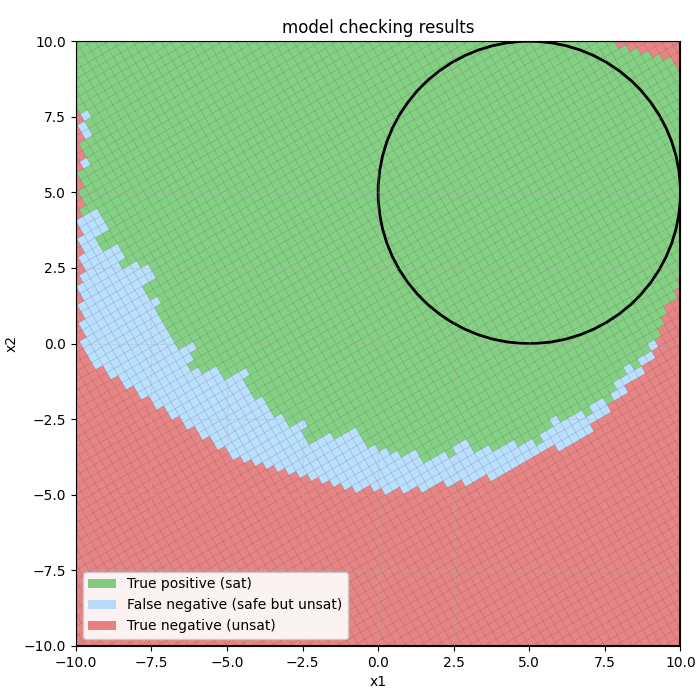
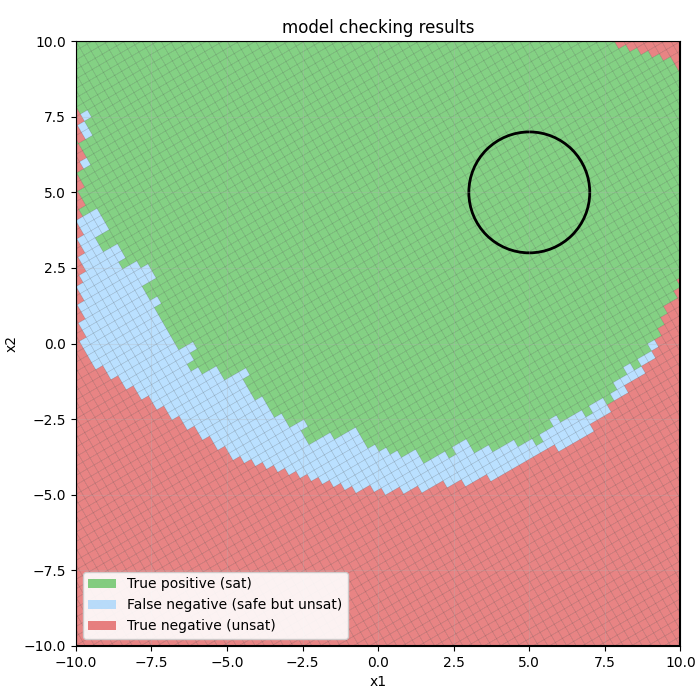
measure fnr post train

diff --git a/synthetic-spread-opt.py b/synthetic-spread-opt.py
@@ -2,6 +2,7 @@
 import numpy as np
 import grid_plot_tools as gpt
 from spread_objective_tools import trans_matrix, diff_objective_reg, extract_grid_params
+from model_checking_tools import make_kripke_from_params, model_check_kripke, check_ground_truth, false_negative_rate
 import jax
 import jax.numpy as jnp
 
@@ -26,7 +27,10 @@ def adam_optimize(params, obj_fn, obj_kwargs, steps=2000, lr=1e-2,
         mhat = m / (1 - b1 ** t)
         vhat = v / (1 - b2 ** t)
 
-        params = params - lr * mhat / (jnp.sqrt(vhat) + eps)
+        # params = params - lr * mhat / (jnp.sqrt(vhat) + eps)
+        # Update only the last 4 parameters
+        update = lr * mhat[-4:] / (jnp.sqrt(vhat[-4:]) + eps)
+        params = params.at[-4:].add(-update)
 
         if (t % print_every) == 0 or t == 1:
             print(f"step {t:5d} | obj {float(val):.6f} | ||g|| {float(gnorm):.6f}")
@@ -43,10 +47,13 @@ if __name__ == "__main__":
     # Define the X-domain
     x1_min, x1_max = -10.0, 10.0
     x2_min, x2_max = -10.0, 10.0
+    x_domain = (x1_min, x1_max, x2_min, x2_max)
+    x_star = np.array([5.0, 5.0])
+    radius = 2.0
 
     # Initial tessellation parameters
-    n1_internal = 18
-    n2_internal = 18
+    n1_internal = 100
+    n2_internal = 100
     key = jax.random.PRNGKey(0)
     u1 = jnp.zeros((n1_internal,))
     u2 = jnp.zeros((n2_internal,))
@@ -63,7 +70,8 @@ if __name__ == "__main__":
     )
     y1_lo, y1_hi = bounds_y["y1"][0], bounds_y["y1"][1]
     y2_lo, y2_hi = bounds_y["y2"][0], bounds_y["y2"][1]
-    
+
+
     # Pack initial params; check initial objective + grad
     params = jnp.concatenate([u1, u2, jnp.array([theta, a1, a2, h])])
     val, grad = jax.value_and_grad(diff_objective_reg)(
@@ -73,6 +81,36 @@ if __name__ == "__main__":
         n1_internal=n1_internal, n2_internal=n2_internal,
         tau=0.05, min_gap=0.0
     )
+
+
+
+    # Run model checking and compute FNR with these initial tessellation parameters
+    M, y1_params, y2_params = extract_grid_params(
+    params,
+    n1_internal=n1_internal, n2_internal=n2_internal,
+    x1_min=x1_min, x1_max=x1_max, x2_min=x2_min, x2_max=x2_max,
+    min_gap=0.0)
+    y1_params_ends = np.concatenate(([y1_lo], np.array(y1_params), [y1_hi]))
+    y2_params_ends = np.concatenate(([y2_lo], np.array(y2_params), [y2_hi]))
+    ground_truth_check = check_ground_truth(x_domain, x_star, radius,
+                                            y1_params_ends, y2_params_ends, M)
+    kripke_structure = make_kripke_from_params(x_domain, x_star, radius,
+                                               y1_params_ends, y2_params_ends, M)
+    sat_init_states = model_check_kripke(kripke_structure)
+    checked_safe_states = set(sat_init_states)
+    true_safe_states = {s for s, v in ground_truth_check.items() if v == 'goal'}
+    fnr, false_negative_states = false_negative_rate(true_safe_states, checked_safe_states)
+    print(f"False Negative Rate (FNR): {fnr:.4f}")
+
+
+
+
+
+    # Compute false negative rate
+    checked_safe_states = set(sat_init_states)
+    true_safe_states = {s for s, v in ground_truth_check.items() if v == 'goal'}
+    fnr, false_negative_states = false_negative_rate(true_safe_states, checked_safe_states)
+    print(f"False Negative Rate (FNR): {fnr:.4f}")
     
     # Optimization
     obj_kwargs = dict(
@@ -87,17 +125,37 @@ if __name__ == "__main__":
     lam_det=10.0,
     lam_cond=1e-3,
     lam_shear=1e-2)
-    params_opt = adam_optimize(params, diff_objective_reg, obj_kwargs, steps=1000, lr=1e-2, clip=50.0)
+    params_opt = adam_optimize(params, diff_objective_reg, obj_kwargs, steps=2000, lr=1e-2, clip=50.0)
 
-    # Plot the grids
-    M_np, y1_vals, y2_vals = extract_grid_params(
+    # Run model checking and compute FNR with these new tessellation parameters
+    M, y1_params, y2_params = extract_grid_params(
     params_opt,
     n1_internal=n1_internal, n2_internal=n2_internal,
     x1_min=x1_min, x1_max=x1_max, x2_min=x2_min, x2_max=x2_max,
     min_gap=0.0)
-    gpt.grid_plotter(M_np, y1_vals, y2_vals, x1_min, x1_max, x2_min, x2_max)
+    y1_params_ends = np.concatenate(([y1_lo], np.array(y1_params), [y1_hi]))
+    y2_params_ends = np.concatenate(([y2_lo], np.array(y2_params), [y2_hi]))
+    ground_truth_check = check_ground_truth(x_domain, x_star, radius,
+                                            y1_params_ends, y2_params_ends, M)
+    kripke_structure = make_kripke_from_params(x_domain, x_star, radius,
+                                               y1_params_ends, y2_params_ends, M)
+    sat_init_states = model_check_kripke(kripke_structure)
+    checked_safe_states = set(sat_init_states)
+    true_safe_states = {s for s, v in ground_truth_check.items() if v == 'goal'}
+    fnr, false_negative_states = false_negative_rate(true_safe_states, checked_safe_states)
+    print(f"False Negative Rate (FNR): {fnr:.4f}")
+    # gpt.grid_plotter(M, y1_params, y2_params, x1_min, x1_max, x2_min, x2_max)
 
-
+    # gpt.plot_x_grid_false_negative_map(
+    #     M,
+    #     y1_params_ends,
+    #     y2_params_ends,
+    #     sat=sat_init_states,
+    #     false_negative_states=false_negative_states,
+    #     x_domain=x_domain,
+    #     x_star=x_star,
+    #     radius=radius,
+    # )
 
 
     # print("Objective:", float(val))

diff --git a/model_checking_tools.py b/model_checking_tools.py
@@ -28,10 +28,13 @@ def intersecting_cells_from_y_aabb(y1_params, y2_params, y1_min, y1_max, y2_min,
     if y1_max < grid_y1_min or y1_min > grid_y1_max or y2_max < grid_y2_min or y2_min > grid_y2_max:
         return []
 
+    # Use side="right" for both ends.
+    # This avoids the empty-set edge case when y_min == y_max equals a grid line:
+    #   side="left" would assign the max to the lower cell, potentially giving i_hi < i_lo.
     i_lo = int(np.searchsorted(y1_params, y1_min, side="right") - 1)
-    i_hi = int(np.searchsorted(y1_params, y1_max, side="left") - 1)
+    i_hi = int(np.searchsorted(y1_params, y1_max, side="right") - 1)
     j_lo = int(np.searchsorted(y2_params, y2_min, side="right") - 1)
-    j_hi = int(np.searchsorted(y2_params, y2_max, side="left") - 1)
+    j_hi = int(np.searchsorted(y2_params, y2_max, side="right") - 1)
 
     i_lo = max(0, min(n1 - 1, i_lo))
     i_hi = max(0, min(n1 - 1, i_hi))
@@ -134,6 +137,11 @@ def make_kripke_from_params(x_domain, x_star, radius, y1_params, y2_params, M):
                 kripke_transitions.add((src, dst))
             if hits_oob:
                 kripke_transitions.add((src, oob_state_id))
+
+            # Force self loop if no in-grid successors and no OOB transition
+            if (not succ_cells) and (not hits_oob):
+                kripke_transitions.add((src, src))
+
             kripke_labels[src] = label
             # print(f"{src}: {label[0]} cell ({i},{j}) -> {len(succ_cells)} in-grid successors" + (" + OOB" if hits_oob else ""))
 
@@ -238,3 +246,9 @@ if __name__ == "__main__":
 
     print(K.states())
     print(K.transitions())
+
+def false_negative_rate(true_safe_states, checked_safe_states):
+    false_negative_states = {s for s in true_safe_states if s not in checked_safe_states}
+    denom = len(true_safe_states)
+    fnr = (len(false_negative_states) / denom) if denom > 0 else float('nan')
+    return fnr, false_negative_states

diff --git a/synthetic-v3.py b/synthetic-v3.py
@@ -1,14 +1,7 @@
 # Libraries
 import numpy as np
 import grid_plot_tools as gpt
-from model_checking_tools import make_kripke_from_params, model_check_kripke, check_ground_truth
-
-
-def false_negative_rate(true_safe_states, checked_safe_states):
-    false_negative_states = {s for s in true_safe_states if s not in checked_safe_states}
-    denom = len(true_safe_states)
-    fnr = (len(false_negative_states) / denom) if denom > 0 else float('nan')
-    return fnr, false_negative_states
+from model_checking_tools import make_kripke_from_params, model_check_kripke, check_ground_truth, false_negative_rate
 
 if __name__ == "__main__":
 
@@ -19,10 +12,10 @@ if __name__ == "__main__":
     x1_min, x1_max = -10.0, 10.0
     x2_min, x2_max = -10.0, 10.0
     x_domain = (x1_min, x1_max, x2_min, x2_max)
-    radius = 5.0
+    radius = 2.0
 
     # Define abstraction mapping parameters
-    theta = -np.pi / 3
+    theta = -np.pi / 4
     s1, s2 = 1.0, 1.0
     h = 0.0
     R = np.array([[np.cos(theta), -np.sin(theta)],
